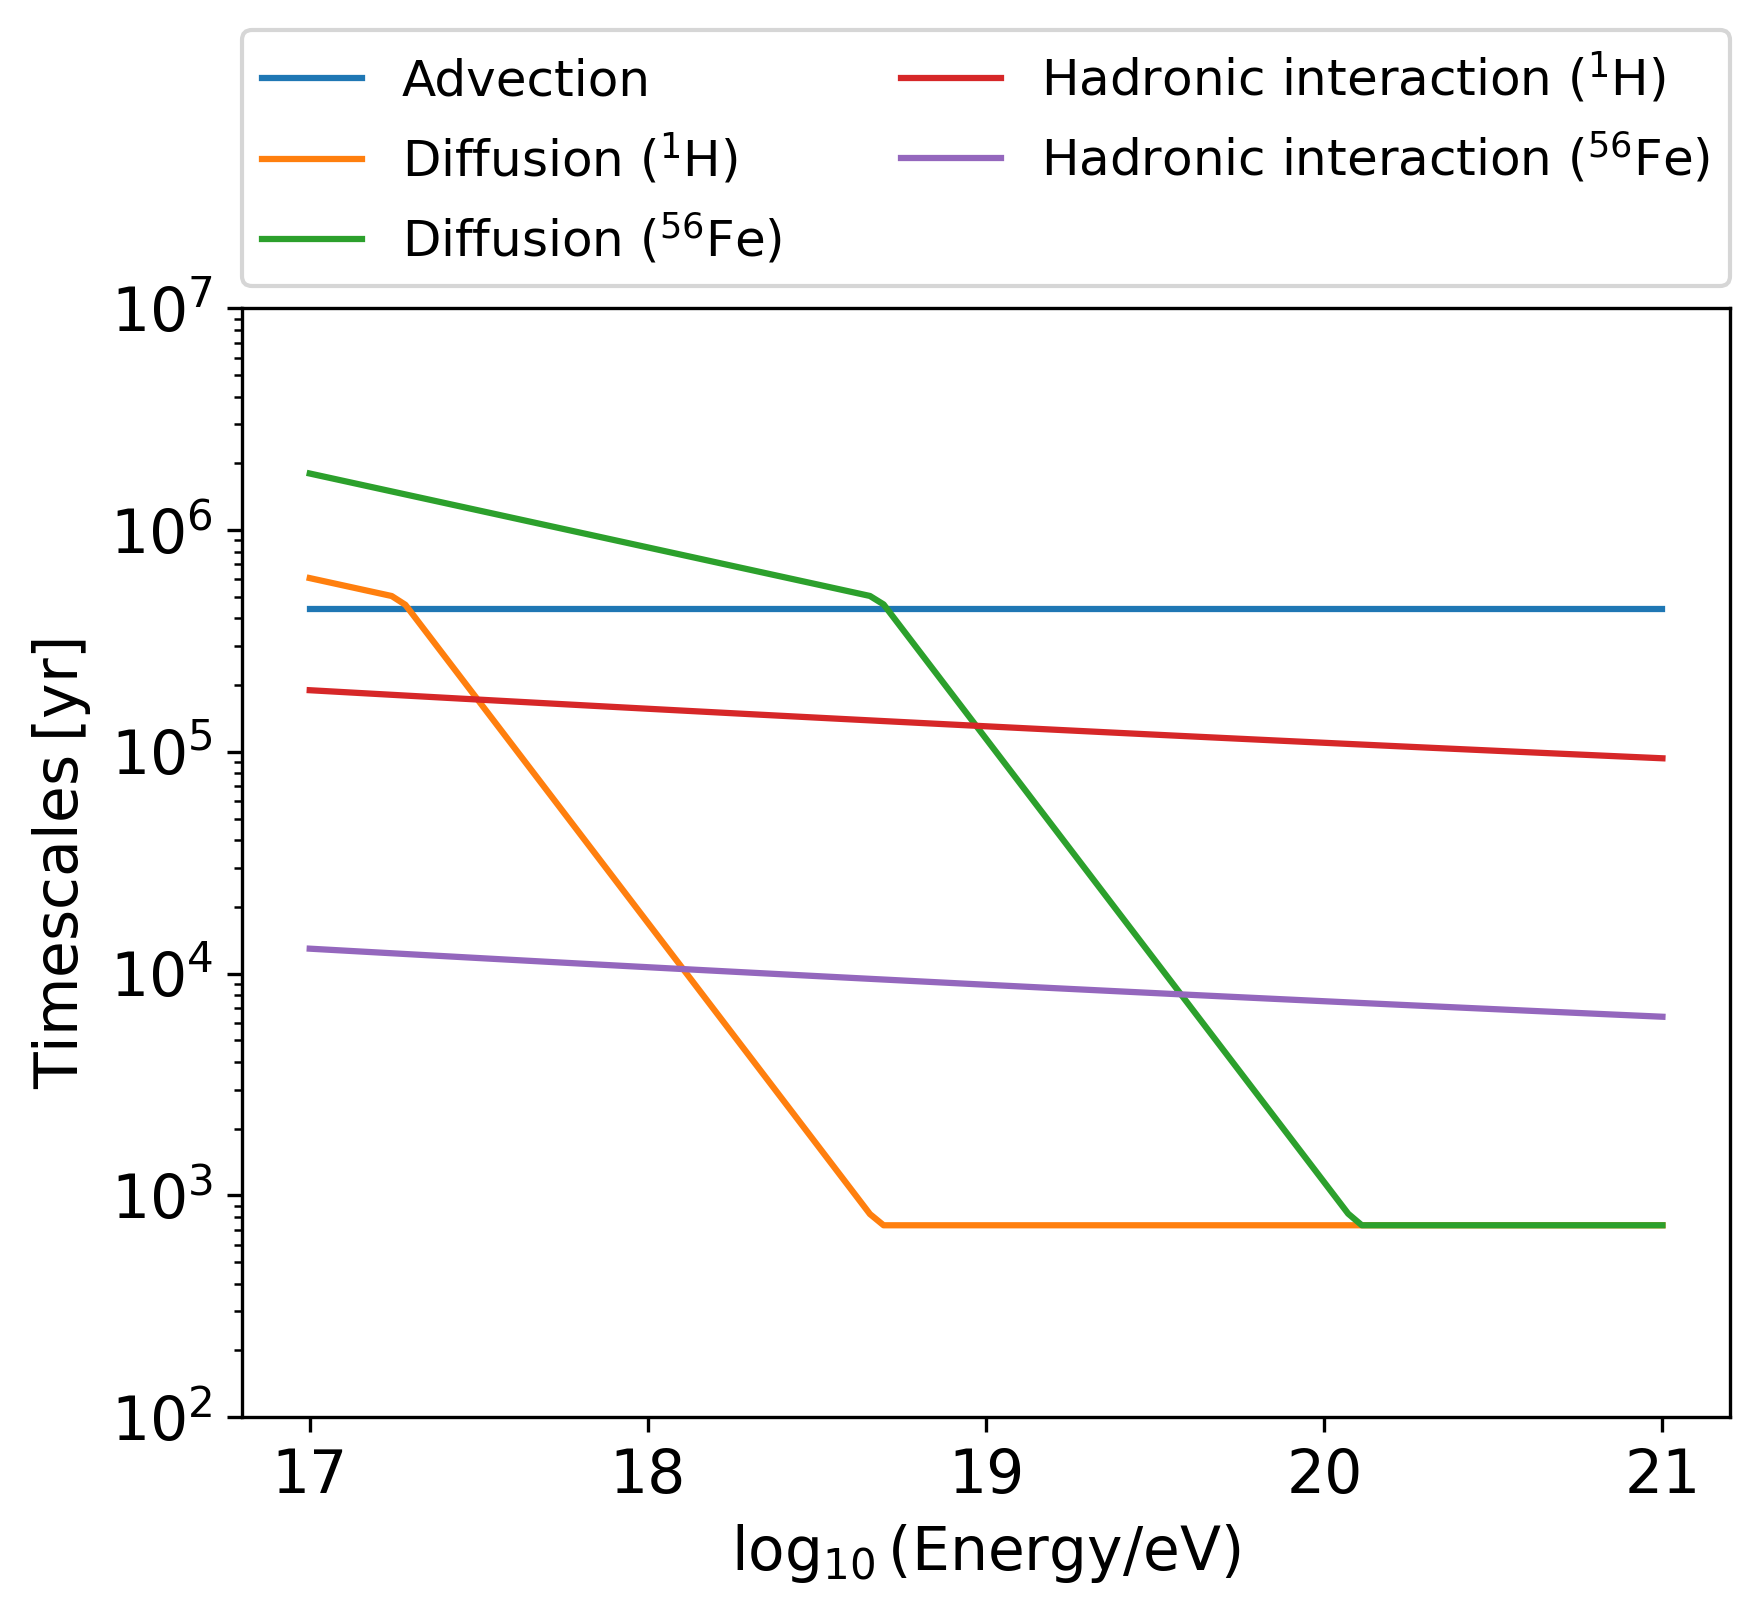
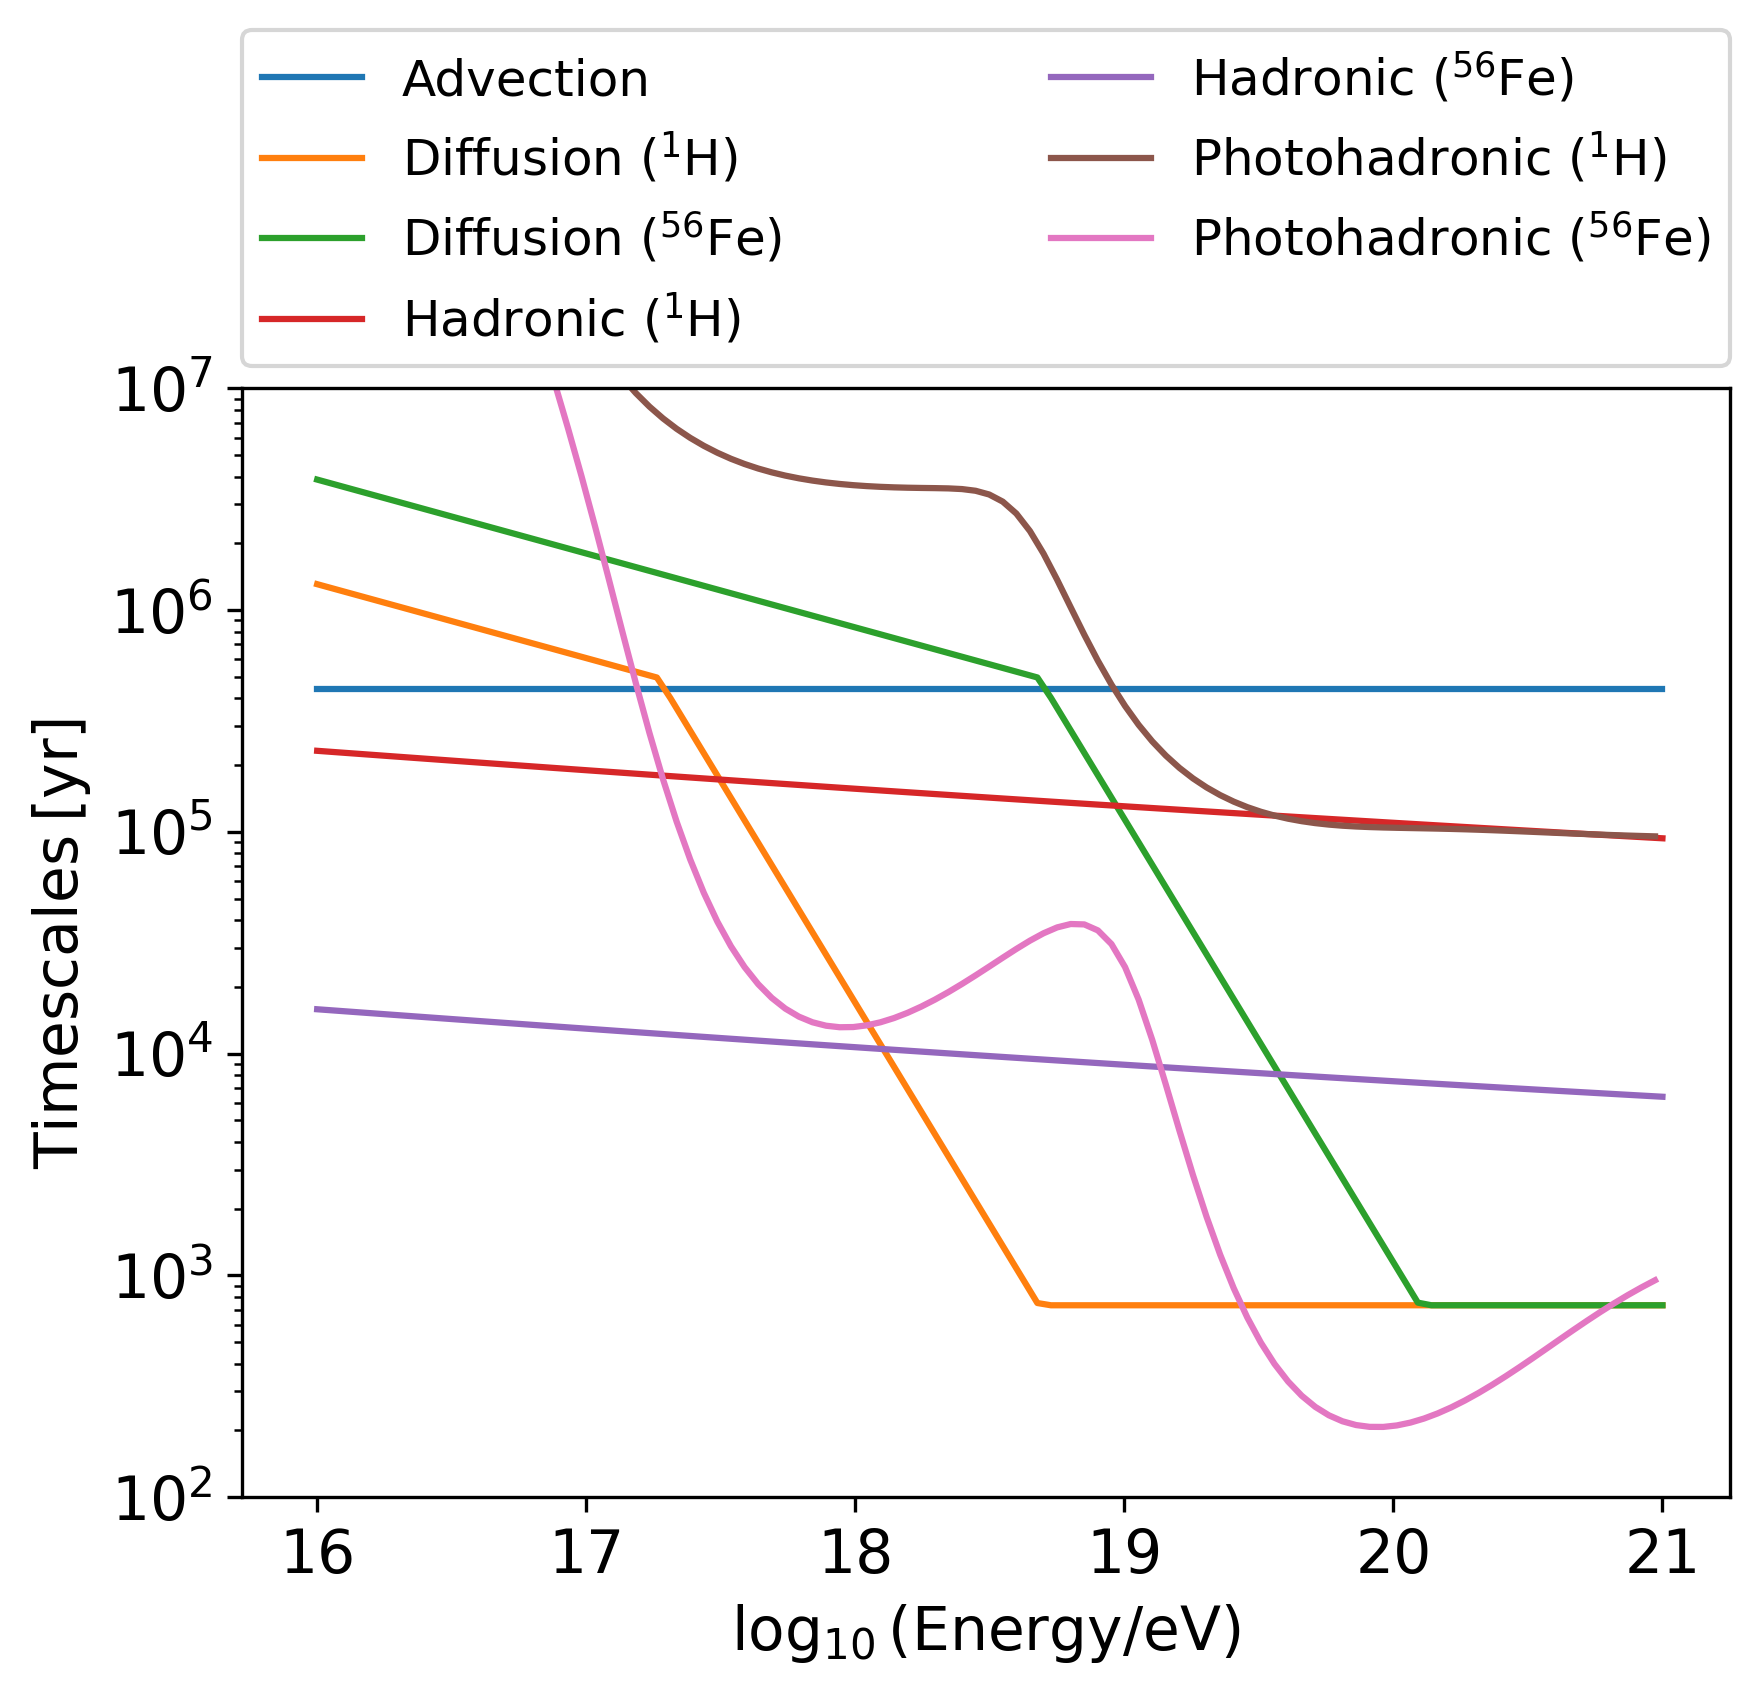
Add photohadronic timescales to timescales plot

diff --git a/timescales/scripts/plot_timescales.py b/timescales/scripts/plot_timescales.py
@@ -11,7 +11,33 @@ plt.rcParams.update({'legend.fontsize': 'large',
 FIGURES_DIR = "../figures"
 RESULTS_DIR = "../results"
 
+PARTICLES = ['1H', '4He', '14N', '28Si', '56Fe']
 PARTICLES_LEGEND = [r'$^1\mathrm{H}$', r'$^4\mathrm{He}$', r'$^{14}\mathrm{N}$', r'$^{28}\mathrm{Si}$', r'$^{56}\mathrm{Fe}$']
+ZS = [1, 2, 7, 14, 26]
+
+# ----------------------------------------------------------------------------------------------------
+def iZ(Z):
+
+    try:
+        return ZS.index(Z)
+    except ValueError:
+        raise ValueError(f"Z ({Z}) not found in ZS.")
+
+# ----------------------------------------------------------------------------------------------------
+def compute_photohadronic_timescales(Z):
+
+    if Z == 1:
+        data_pp = np.loadtxt(f"{RESULTS_DIR}/timescales_pairproduction_{PARTICLES[iZ(Z)]}.dat")
+        data_photopion = np.loadtxt(f"{RESULTS_DIR}/timescales_photopion_{PARTICLES[iZ(Z)]}.dat")
+
+        return data_pp[:,0], (1 / data_pp[:,1] + 1 / data_photopion[:,1])**-1
+
+    if Z == 26:
+        data_pp = np.loadtxt(f"{RESULTS_DIR}/timescales_pairproduction_{PARTICLES[iZ(Z)]}.dat")
+        data_photopion = np.loadtxt(f"{RESULTS_DIR}/timescales_photopion_{PARTICLES[iZ(Z)]}.dat")
+        data_pd = np.loadtxt(f"{RESULTS_DIR}/timescales_photodisintegration_{PARTICLES[iZ(Z)]}.dat")
+
+        return data_pp[:,0], (1 / data_pp[:,1] + 1 / data_photopion[:,1] + 1 / data_pd[:,1])**-1
 
 # ----------------------------------------------------------------------------------------------------
 def plot_timescales():
@@ -21,12 +47,16 @@ def plot_timescales():
     data_diff_56Fe = np.loadtxt(f"{RESULTS_DIR}/timescales_diff_56Fe.dat")
     data_spal_1H = np.loadtxt(f"{RESULTS_DIR}/timescales_spal_1H.dat")
     data_spal_56Fe = np.loadtxt(f"{RESULTS_DIR}/timescales_spal_56Fe.dat")
+    data_photohadronic_1H = compute_photohadronic_timescales(1)
+    data_photohadronic_56Fe = compute_photohadronic_timescales(26)
 
     plt.plot(np.log10(data_advection[:,0] * 1.e18), data_advection[:,1], label = 'Advection')
     plt.plot(np.log10(data_diff_1H[:,0] * 1.e18), data_diff_1H[:,1], label = f'Diffusion ({PARTICLES_LEGEND[0]})')
     plt.plot(np.log10(data_diff_56Fe[:,0] * 1.e18), data_diff_56Fe[:,1], label = f'Diffusion ({PARTICLES_LEGEND[4]})')
-    plt.plot(np.log10(data_spal_1H[:,0] * 1.e18), data_spal_1H[:,1], label = f'Hadronic interaction ({PARTICLES_LEGEND[0]})')
-    plt.plot(np.log10(data_spal_56Fe[:,0] * 1.e18), data_spal_56Fe[:,1], label = f'Hadronic interaction ({PARTICLES_LEGEND[4]})')
+    plt.plot(np.log10(data_spal_1H[:,0] * 1.e18), data_spal_1H[:,1], label = f'Hadronic ({PARTICLES_LEGEND[0]})')
+    plt.plot(np.log10(data_spal_56Fe[:,0] * 1.e18), data_spal_56Fe[:,1], label = f'Hadronic ({PARTICLES_LEGEND[4]})')
+    plt.plot(np.log10(data_photohadronic_1H[0]), data_photohadronic_1H[1], label = f'Photohadronic ({PARTICLES_LEGEND[0]})')
+    plt.plot(np.log10(data_photohadronic_56Fe[0]), data_photohadronic_56Fe[1], label = f'Photohadronic ({PARTICLES_LEGEND[4]})')
     plt.yscale('log')
     plt.ylim([1.e2, 1.e7])
     plt.xlabel(r'$\log_{10}{({\rm Energy}/{\rm eV})}$')

diff --git a/sec-spec/scripts/compute_transport_solution.py b/sec-spec/scripts/compute_transport_solution.py
@@ -17,7 +17,7 @@ Gmm = 2
 # ----------------------------------------------------------------------------------------------------
 def injection_term_integrand(E, Z):
 
-    return E**(-Gmm + 1) # * np.exp(-E / (Z * Rcut))
+    return E**(-Gmm + 1)
 
 # ----------------------------------------------------------------------------------------------------
 def injection_term(E, Z): # The rate of injection of particles per unit volume per unit time, Q(E)
@@ -26,7 +26,7 @@ def injection_term(E, Z): # The rate of injection of particles per unit volume p
     E_SN = 1e51 * erg_to_eV 
 
     A = xi_CR * E_SN / quad(injection_term_integrand, 1e9, 1e21, args = (Z))[0] 
-    return A * R_SN * E**-Gmm # * np.exp(-E / (Z * Rcut)) 
+    return A * R_SN * E**-Gmm 
 
 # ----------------------------------------------------------------------------------------------------
 def get_total_timescale(E): # \tau
